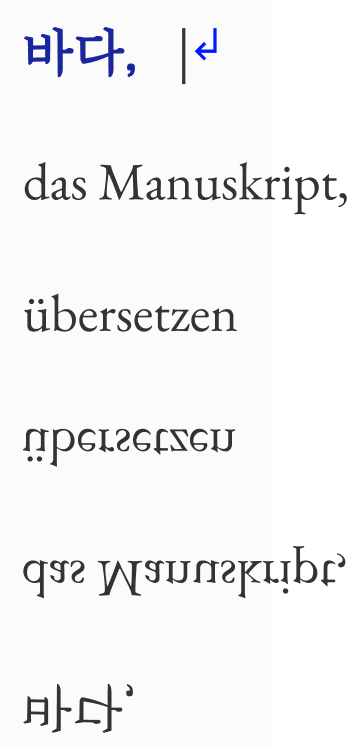
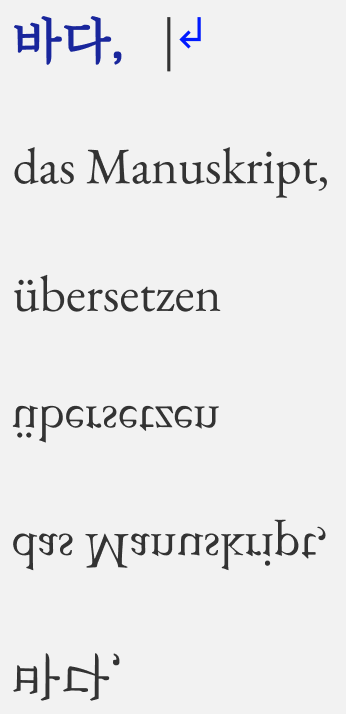
Add files via upload

diff --git a/index.html b/index.html
@@ -6,18 +6,19 @@
     <meta name="viewport" content="width=device-width, initial-scale=1.0">
     <title>글자를 옮기는 사람</title>
 
+    <link rel="stylesheet" href="https://use.typekit.net/stg8ocx.css">
     <style>
-        @font-face {
-            font-family: 'MaruBuri-Regular';
-            src: url('https://cdn.jsdelivr.net/gh/projectnoonnu/noonfonts_20-10-21@1.0/MaruBuri-Regular.woff') format('woff');
-            font-weight: normal;
-            font-style: normal;
-        }
-        *{font-family: 'MaruBuri-Regular'; line-height: 2;}
+        *{font-family: agchoijeongho-screen, sans-serif;
+            font-weight: 400; font-style: normal;
+            word-break: keep-all;
+            line-height: 2;}
 
         #scroll{position: fixed; top: 9.5rem; left: 7rem;
         font-size: 2rem; z-index: 1000;}
 
+        .pageNum{font-family: cormorant-garamond, serif;
+            font-weight: 400;
+            font-style: normal;}
 
         #article{margin-top: 30%; position: relative;
             background: rgb(255, 255, 255); width: 78rem;
@@ -47,7 +48,7 @@
 </head>
 <body>
     <div id="container">
-        <img src="bg.png" alt="" id="bg">
+        <img src="bg.jpg" alt="" id="bg">
 
         <div id="scroll"></div>
 

diff --git a/script.js b/script.js
@@ -1,3 +1,13 @@
+(function(d) {
+    var config = {
+        kitId: 'qfx6bmh',
+        scriptTimeout: 3000,
+        async: true
+    },
+    h=d.documentElement,t=setTimeout(function(){h.className=h.className.replace(/\bwf-loading\b/g,"")+" wf-inactive";},config.scriptTimeout),tk=d.createElement("script"),f=false,s=d.getElementsByTagName("script")[0],a;h.className+=" wf-loading";tk.src='https://use.typekit.net/'+config.kitId+'.js';tk.async=true;tk.onload=tk.onreadystatechange=function(){a=this.readyState;if(f||a&&a!="complete"&&a!="loaded")return;f=true;clearTimeout(t);try{Typekit.load(config)}catch(e){}};s.parentNode.insertBefore(tk,s)
+})(document);
+
+
 window.onload = function(){
     const A = document.querySelector("#article");
     const leftA = document.querySelectorAll(".leftArticle");
